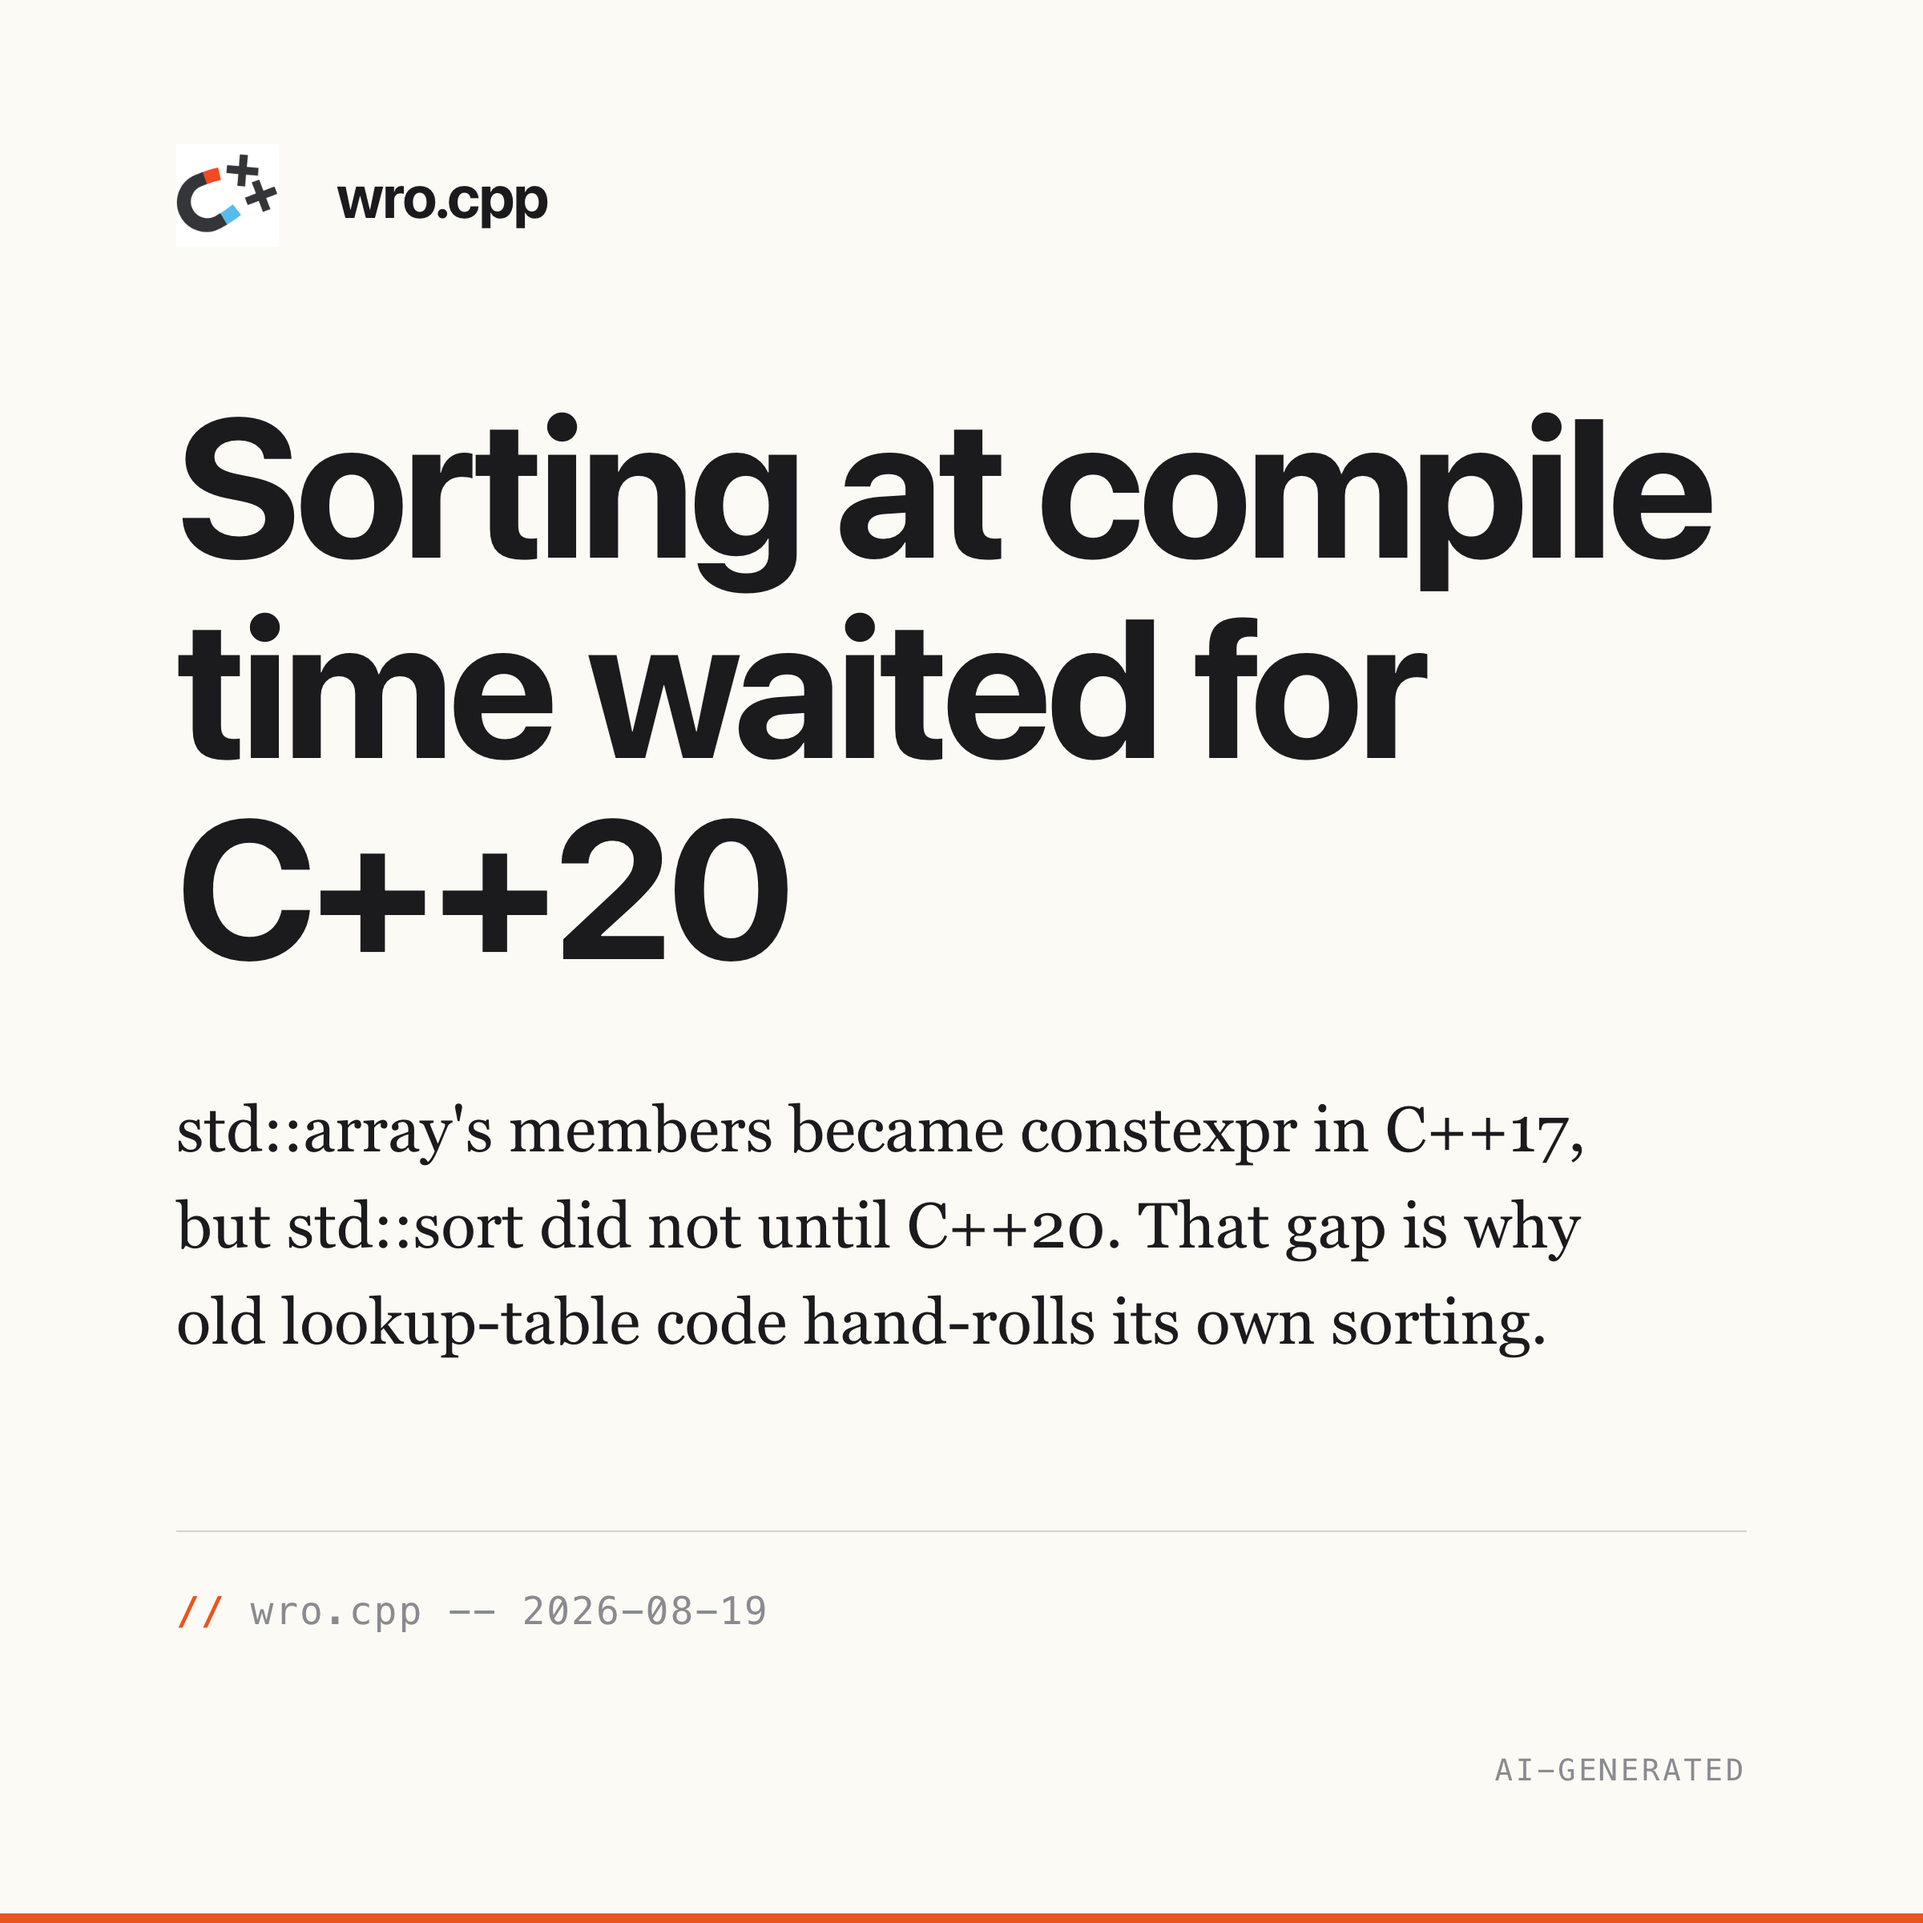
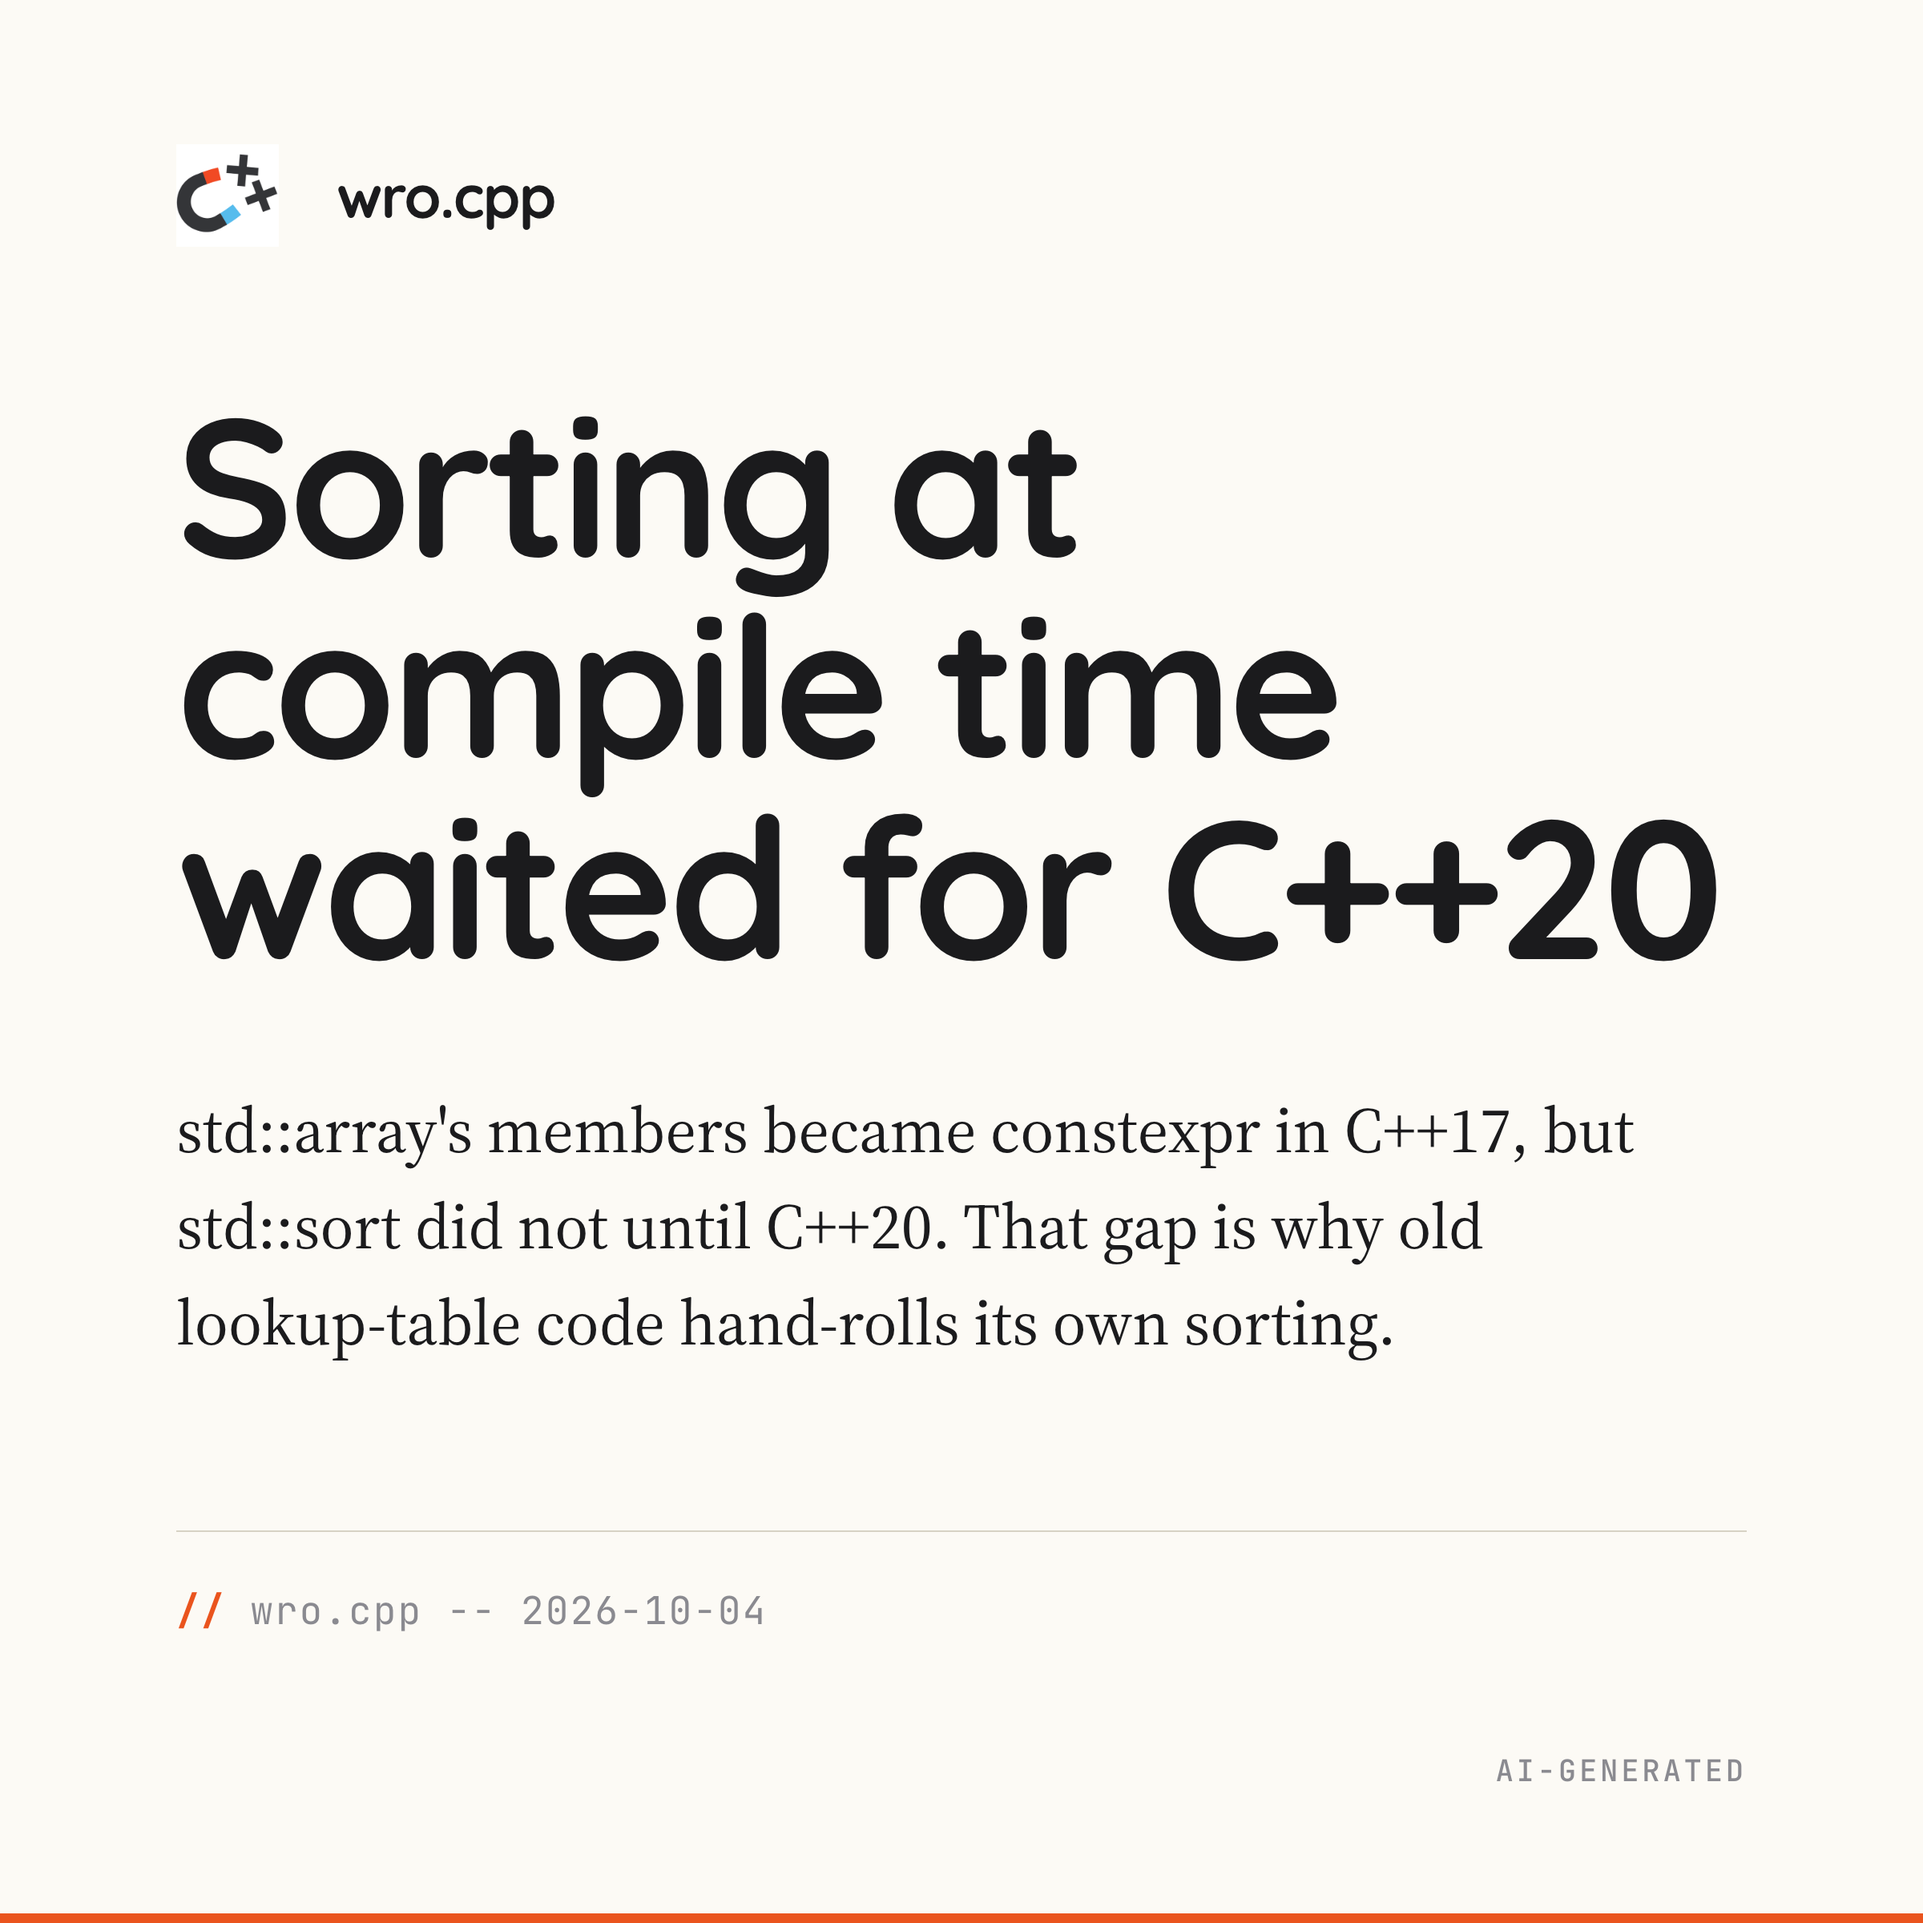
chore(schedule): move constexpr-array-evolution to 2026-10-04
Frees 2026-08-19 for the lifetimebound short, which is timely. This post
is evergreen and loses nothing at the tail. Cards re-rendered so the
citation date matches.

diff --git a/social/facebook/constexpr-array-evolution/index.html b/social/facebook/constexpr-array-evolution/index.html
@@ -23,6 +23,6 @@
   </defs>
 </svg>
 
-<section class="card card-insight dark"><div class="grid-bg"></div><div class="glow"></div><div class="insight-content"><h1>Sorting at compile time waited for C++20</h1><p>std::array's members became constexpr in C++17, but std::sort did not until C++20. That gap is why old lookup-table code hand-rolls its own sorting.</p><div class="insight-citation">wro.cpp -- 2026-08-19</div></div><div class="logo-watermark top-left"><svg viewBox="0 0 512 512" aria-hidden="true"><use href="#scudo-logo"/></svg><span class="logo-wordmark">ScudoAI</span></div><div class="ai-badge">AI-generated</div></section>
+<section class="card card-insight dark"><div class="grid-bg"></div><div class="glow"></div><div class="insight-content"><h1>Sorting at compile time waited for C++20</h1><p>std::array's members became constexpr in C++17, but std::sort did not until C++20. That gap is why old lookup-table code hand-rolls its own sorting.</p><div class="insight-citation">wro.cpp -- 2026-10-04</div></div><div class="logo-watermark top-left"><svg viewBox="0 0 512 512" aria-hidden="true"><use href="#scudo-logo"/></svg><span class="logo-wordmark">ScudoAI</span></div><div class="ai-badge">AI-generated</div></section>
 </body>
 </html>

diff --git a/social/linkedin/constexpr-array-evolution/index.html b/social/linkedin/constexpr-array-evolution/index.html
@@ -23,6 +23,6 @@
   </defs>
 </svg>
 
-<section class="card card-insight dark"><div class="grid-bg"></div><div class="glow"></div><div class="insight-content"><h1>Sorting at compile time waited for C++20</h1><p>std::array's members became constexpr in C++17, but std::sort did not until C++20. That gap is why old lookup-table code hand-rolls its own sorting.</p><div class="insight-citation">wro.cpp -- 2026-08-19</div></div><div class="logo-watermark top-left"><svg viewBox="0 0 512 512" aria-hidden="true"><use href="#scudo-logo"/></svg><span class="logo-wordmark">ScudoAI</span></div><div class="ai-badge">AI-generated</div></section>
+<section class="card card-insight dark"><div class="grid-bg"></div><div class="glow"></div><div class="insight-content"><h1>Sorting at compile time waited for C++20</h1><p>std::array's members became constexpr in C++17, but std::sort did not until C++20. That gap is why old lookup-table code hand-rolls its own sorting.</p><div class="insight-citation">wro.cpp -- 2026-10-04</div></div><div class="logo-watermark top-left"><svg viewBox="0 0 512 512" aria-hidden="true"><use href="#scudo-logo"/></svg><span class="logo-wordmark">ScudoAI</span></div><div class="ai-badge">AI-generated</div></section>
 </body>
 </html>

diff --git a/social/facebook/constexpr-array-evolution/content.md b/social/facebook/constexpr-array-evolution/content.md
@@ -4,7 +4,7 @@ template: social/linkedin-post
 
 ::::post{type=insight theme=dark logo=top-left}
 
-:::insight{citation="wro.cpp -- 2026-08-19"}
+:::insight{citation="wro.cpp -- 2026-10-04"}
 # Sorting at compile time waited for C++20
 std::array's members became constexpr in C++17, but std::sort did not until C++20. That gap is why old lookup-table code hand-rolls its own sorting.
 :::

diff --git a/social/linkedin/constexpr-array-evolution/content.md b/social/linkedin/constexpr-array-evolution/content.md
@@ -4,7 +4,7 @@ template: social/linkedin-post
 
 ::::post{type=insight theme=dark logo=top-left}
 
-:::insight{citation="wro.cpp -- 2026-08-19"}
+:::insight{citation="wro.cpp -- 2026-10-04"}
 # Sorting at compile time waited for C++20
 std::array's members became constexpr in C++17, but std::sort did not until C++20. That gap is why old lookup-table code hand-rolls its own sorting.
 :::
